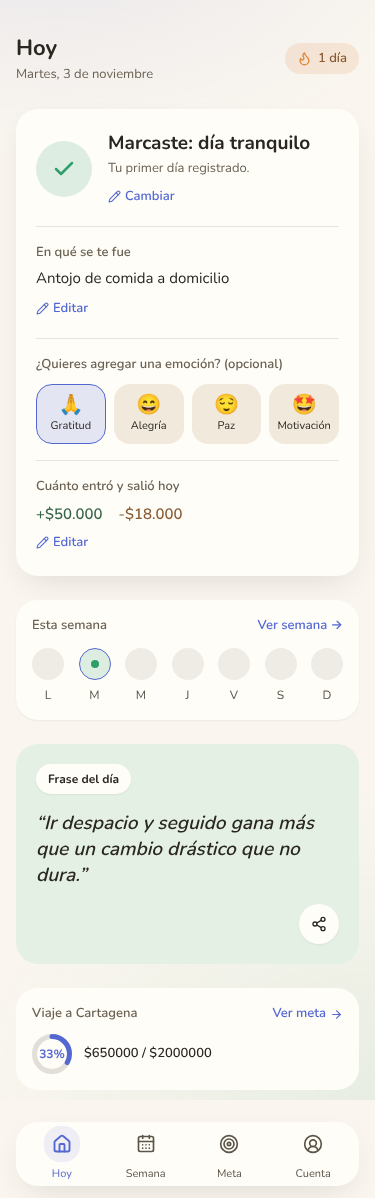
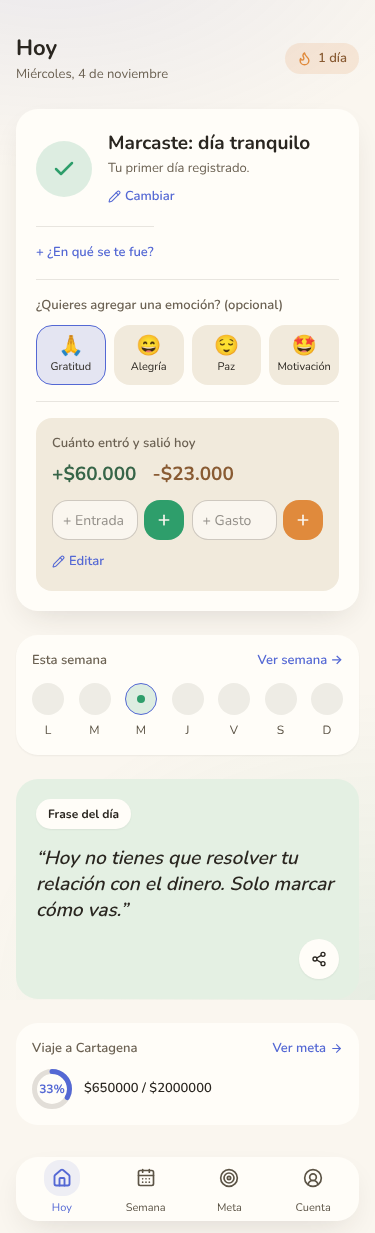
feat: suma/resta entradas y gastos del día sin tener que calcular a mano

diff --git a/app/app/page.tsx b/app/app/page.tsx
@@ -7,7 +7,7 @@
 import Link from 'next/link';
 import { useEffect, useState, type FormEvent } from 'react';
 import { motion, useReducedMotion, type Variants } from 'motion/react';
-import { AlertTriangle, ArrowRight, Check, Pencil, Smile, AlertCircle, Share2, Target, Wallet, X } from 'lucide-react';
+import { AlertTriangle, ArrowRight, Check, Pencil, Plus, Smile, AlertCircle, Share2, Target, Wallet, X } from 'lucide-react';
 import {
   calcularRacha,
   checkInDeHoy,
@@ -21,6 +21,7 @@ import {
   type EstadoSemaforo,
 } from '@/lib/app';
 import {
+  agregarMontosDiaSupabase,
   obtenerEstadoApp,
   registrarCheckInSupabase,
   registrarEmocionCheckInSupabase,
@@ -93,6 +94,15 @@ export default function Hoy() {
     }
   }
 
+  async function agregarMontos(deltaEntradas: number, deltaGastos: number) {
+    try {
+      setEstado(await agregarMontosDiaSupabase(deltaEntradas, deltaGastos));
+      setAvisoGuardado(false);
+    } catch {
+      setAvisoGuardado(true);
+    }
+  }
+
   if (errorCarga) {
     return <ErrorCarga />;
   }
@@ -157,6 +167,7 @@ export default function Hoy() {
             onGuardarNota={guardarNota}
             onGuardarEmocion={guardarEmocion}
             onGuardarMontos={guardarMontos}
+            onAgregarMontos={agregarMontos}
           />
         )}
       </motion.section>
@@ -359,6 +370,7 @@ function ConfirmacionDia({
   onGuardarNota,
   onGuardarEmocion,
   onGuardarMontos,
+  onAgregarMontos,
 }: {
   estado: EstadoSemaforo;
   racha: number;
@@ -370,6 +382,7 @@ function ConfirmacionDia({
   onGuardarNota: (nota: string) => Promise<void>;
   onGuardarEmocion: (emocion: string | null) => Promise<void>;
   onGuardarMontos: (entradas: number | null, gastos: number | null) => Promise<void>;
+  onAgregarMontos: (deltaEntradas: number, deltaGastos: number) => Promise<void>;
 }) {
   const tranquilo = estado === 'tranquilo';
   const [editandoNota, setEditandoNota] = useState(false);
@@ -477,7 +490,7 @@ function ConfirmacionDia({
       </div>
 
       <div className="mt-4 border-t border-[color-mix(in_oklab,var(--text-tertiary)_14%,transparent)] pt-4">
-        <CamposMontosDia entradas={entradas} gastos={gastos} onGuardar={onGuardarMontos} />
+        <CamposMontosDia entradas={entradas} gastos={gastos} onGuardar={onGuardarMontos} onAgregar={onAgregarMontos} />
       </div>
     </div>
   );
@@ -596,10 +609,12 @@ function CamposMontosDia({
   entradas,
   gastos,
   onGuardar,
+  onAgregar,
 }: {
   entradas: number | null;
   gastos: number | null;
   onGuardar: (entradas: number | null, gastos: number | null) => Promise<void>;
+  onAgregar: (deltaEntradas: number, deltaGastos: number) => Promise<void>;
 }) {
   const [editando, setEditando] = useState(false);
   const [textoEntradas, setTextoEntradas] = useState(entradas !== null ? String(entradas) : '');
@@ -695,10 +710,14 @@ function CamposMontosDia({
             </span>
           )}
         </div>
+        <div className="mt-3 flex gap-2">
+          <AgregarMonto color="verde" placeholder="+ Entrada" onAgregar={(monto) => onAgregar(monto, 0)} />
+          <AgregarMonto color="naranja" placeholder="+ Gasto" onAgregar={(monto) => onAgregar(0, monto)} />
+        </div>
         <button
           type="button"
           onClick={() => setEditando(true)}
-          className="mt-2 inline-flex items-center gap-1 text-[13px] font-semibold text-[var(--accent)] [touch-action:manipulation]"
+          className="mt-3 inline-flex items-center gap-1 text-[13px] font-semibold text-[var(--accent)] [touch-action:manipulation]"
         >
           <Pencil size={13} strokeWidth={2} aria-hidden="true" /> Editar
         </button>
@@ -714,5 +733,60 @@ function CamposMontosDia({
     >
       <Wallet size={17} strokeWidth={2} aria-hidden="true" /> ¿Cuánto entró y salió hoy?
     </button>
+  );
+}
+
+/* ── <AgregarMonto> — suma al total del día sin que la usuaria calcule nada (pedido explícito,
+   Sesión 7: "varias entradas/gastos en el día... que la app lo haga"). Mismo gesto que
+   "Registrar avance" de Tu meta: un número + "+", nunca un motivo o categoría (se mantiene
+   básico, a propósito — ver nota de la usuaria en ESTADO.md). ── */
+function AgregarMonto({
+  color,
+  placeholder,
+  onAgregar,
+}: {
+  color: 'verde' | 'naranja';
+  placeholder: string;
+  onAgregar: (monto: number) => Promise<void>;
+}) {
+  const [texto, setTexto] = useState('');
+  const [guardando, setGuardando] = useState(false);
+  const accent = color === 'verde' ? 'var(--accent-2)' : 'var(--accent-3)';
+
+  async function agregar(e: FormEvent) {
+    e.preventDefault();
+    const monto = Number(texto);
+    if (!monto || monto <= 0 || guardando) return;
+    setGuardando(true);
+    try {
+      await onAgregar(monto);
+      setTexto('');
+    } finally {
+      setGuardando(false);
+    }
+  }
+
+  return (
+    <form onSubmit={agregar} className="flex min-w-0 flex-1 gap-1.5">
+      <input
+        type="text"
+        inputMode="numeric"
+        placeholder={placeholder}
+        value={formatearMiles(texto)}
+        onChange={(e) => setTexto(soloDigitos(e.target.value))}
+        aria-label={placeholder}
+        className="h-10 min-w-0 flex-1 rounded-[var(--radius-button)] border border-[color-mix(in_oklab,var(--text-tertiary)_28%,transparent)] bg-[var(--bg)] px-2.5 text-[14px] text-[var(--text-primary)] outline-none focus:border-[var(--accent)]"
+      />
+      <motion.button
+        type="submit"
+        disabled={guardando}
+        whileTap={{ scale: 0.95 }}
+        aria-label={`Sumar a ${placeholder.toLowerCase()}`}
+        className="flex size-10 shrink-0 items-center justify-center rounded-[var(--radius-button)] disabled:opacity-60 [touch-action:manipulation]"
+        style={{ background: accent }}
+      >
+        <Plus size={16} strokeWidth={2.5} color="var(--bg)" aria-hidden="true" />
+      </motion.button>
+    </form>
   );
 }

diff --git a/lib/supabase/datos.ts b/lib/supabase/datos.ts
@@ -157,6 +157,29 @@ export async function registrarMontosDiaSupabase(entradas: number | null, gastos
   return obtenerEstadoApp();
 }
 
+/** Suma (o resta, con delta negativo) a lo que ya llevaba hoy — para cuando hay varias entradas
+ * o gastos en el mismo día y la usuaria no quiere calcular el total a mano cada vez. */
+export async function agregarMontosDiaSupabase(deltaEntradas: number, deltaGastos: number): Promise<EstadoApp> {
+  const supabase = crearClienteSupabase();
+  const uid = await usuarioId();
+  const { data: actual, error: errorLectura } = await supabase
+    .from('checkins')
+    .select('entradas, gastos')
+    .eq('user_id', uid)
+    .eq('fecha', hoyISO())
+    .maybeSingle();
+  if (errorLectura) throw errorLectura;
+  const nuevasEntradas = Math.max(0, Number(actual?.entradas ?? 0) + deltaEntradas);
+  const nuevosGastos = Math.max(0, Number(actual?.gastos ?? 0) + deltaGastos);
+  const { error } = await supabase
+    .from('checkins')
+    .update({ entradas: nuevasEntradas, gastos: nuevosGastos })
+    .eq('user_id', uid)
+    .eq('fecha', hoyISO());
+  if (error) throw error;
+  return obtenerEstadoApp();
+}
+
 /** Crea una meta nueva en modo "monto" (ahorrar / salir de deuda) — ahora INSERTA una fila
  * más, no reemplaza la existente: la usuaria puede tener varias metas a la vez. */
 export async function crearMetaMontoSupabase(

diff --git a/ESTADO.md b/ESTADO.md
@@ -1,6 +1,20 @@
 # ESTADO — Respira
 Última actualización: 2026-11-04 | Sesión actual: 7
 
+⏸ CHECKPOINT (2026-11-04, noche): la usuaria notó que "cuánto entró y salió hoy" (REEMPLAZABA el
+número del día) la obligaba a sumar a mano si tenía varios gastos/entradas en el mismo día. Pedido
+explícito: que la app sume/reste sola, SIN pedir motivo ni categoría ("algo básico" — decisión
+confirmada: no agregar un campo de motivo, mantiene la diferencia con un presupuesto tradicional
+que la usuaria ya había elegido antes). Agregados dos controles rápidos de "+" (uno verde para
+sumar a lo que entró, uno naranja para sumar a lo que salió) junto a los totales del día — mismo
+gesto que "Registrar avance" de Tu meta. "Editar" sigue existiendo para corregir un error a mano
+(reemplaza el número exacto). Cambiado en: `lib/supabase/datos.ts` (nueva
+`agregarMontosDiaSupabase`, suma sobre lo que ya había) y `app/app/page.tsx` (nuevo componente
+`AgregarMonto`). No tocó la base de datos — no hay migración nueva. Verificado: tsc ✓ build ✓ ·
+probado en el navegador sumando $10.000 a entradas y $5.000 a gastos sobre un día que ya tenía
+$50.000/$18.000 — quedó en $60.000/$23.000 correctamente. Captura en
+`docs/revisiones/pantalla-principal-375.png`. Pendiente: que la usuaria lo pruebe en la app real.
+
 ⏸ CHECKPOINT (2026-11-04, noche): la usuaria pidió un ajuste de navegación en "Tu meta" — al
 guardar una meta (la primera o una nueva), ahora se queda mostrando SU detalle (anillo, registrar
 avance, editar, borrar) en vez de volver a la lista. El botón "←" de arriba sigue llevando al

diff --git a/docs/revisiones/paywall-veredicto.md b/docs/revisiones/paywall-veredicto.md
@@ -346,3 +346,10 @@ El hook marcará `app/app/meta/page.tsx` como más nuevo que este veredicto. Mis
 `app/paywall/page.tsx` no importa ese archivo. El cambio (al guardar una meta, se queda en su
 detalle en vez de volver a la lista) vive solo en la pantalla "Tu meta". Cero impacto; la
 certificación LISTA sigue vigente.
+
+## Trigésimo segunda re-verificación (2026-11-04, noche — sumar/restar entradas y gastos del día)
+
+El hook marcará `app/app/page.tsx` y `lib/supabase/datos.ts` como más nuevos que este veredicto.
+Mismo caso de siempre: `app/paywall/page.tsx` no importa ninguno de los dos. El cambio (botones
+de "+" para sumar al total del día sin reemplazarlo) vive solo en Hoy y en la lógica de datos
+compartida. Cero impacto; la certificación LISTA sigue vigente.
